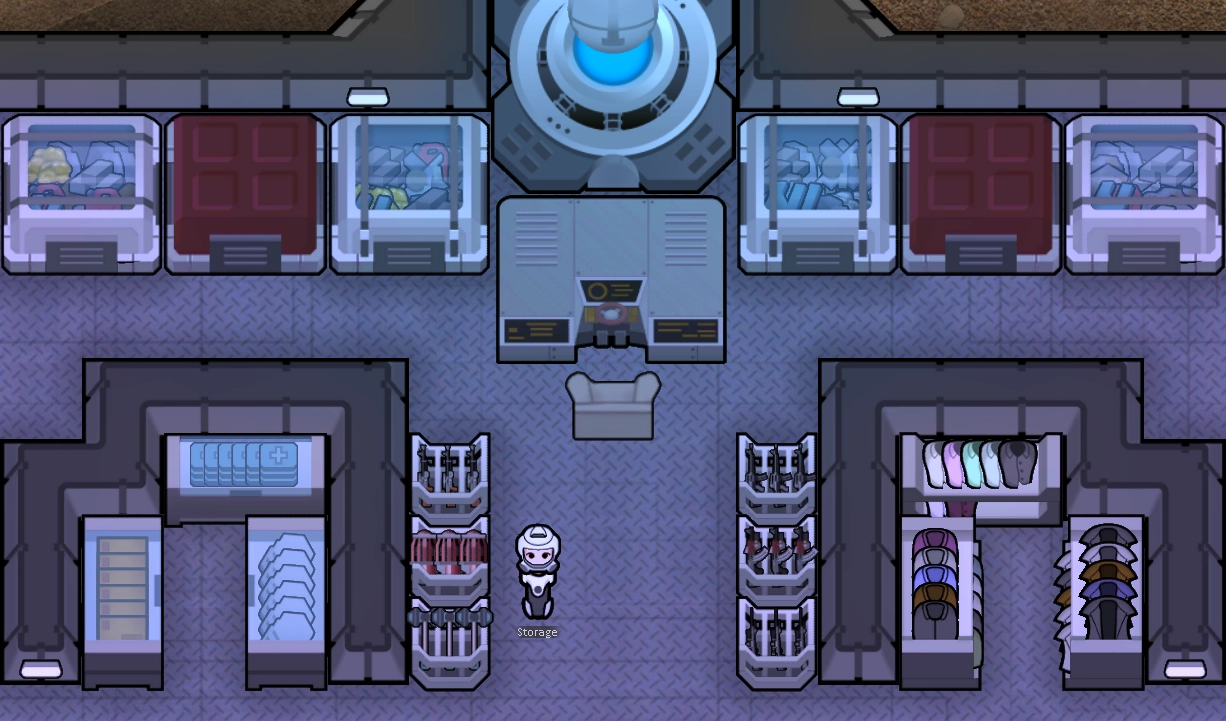
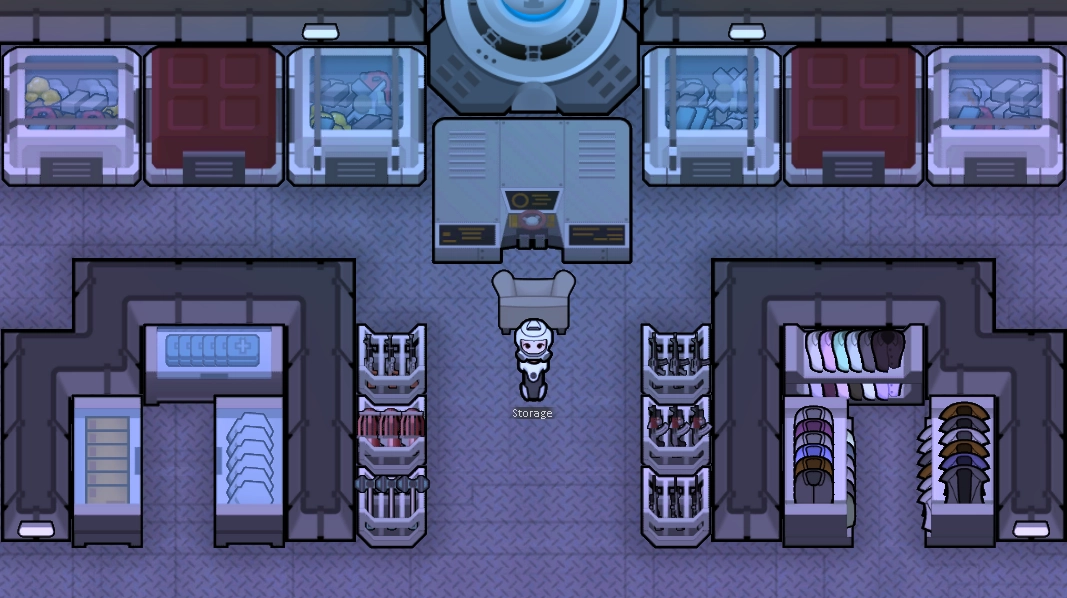
edit: image

diff --git a/_posts/2000-01-01-image.md b/_posts/2000-01-01-image.md
@@ -20,7 +20,7 @@ image: "/assets/favicons/favicon-512x512.png"
 <hr><div class="half-space"></div>
 [sbz] Gravship Storage
 <div class="half-space"></div><hr><div class="half-space"></div>
-<img src="https://seobongzu.com/assets/images/rimworld/SteamWorkshop/GravshipStorage.webp" alt="Gravship Storage" width=1226px height=721px>
+<img src="https://seobongzu.com/assets/images/rimworld/SteamWorkshop/GravshipStorage.webp" alt="Gravship Storage" width=1067px height=598px>
 
 <hr><div class="half-space"></div>
 [sbz] Fridge
